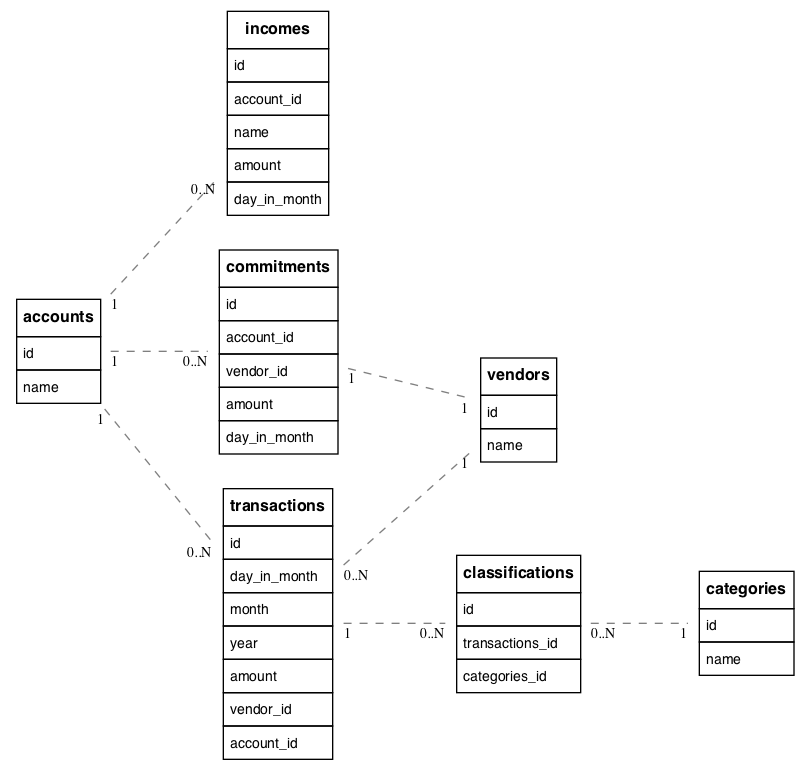
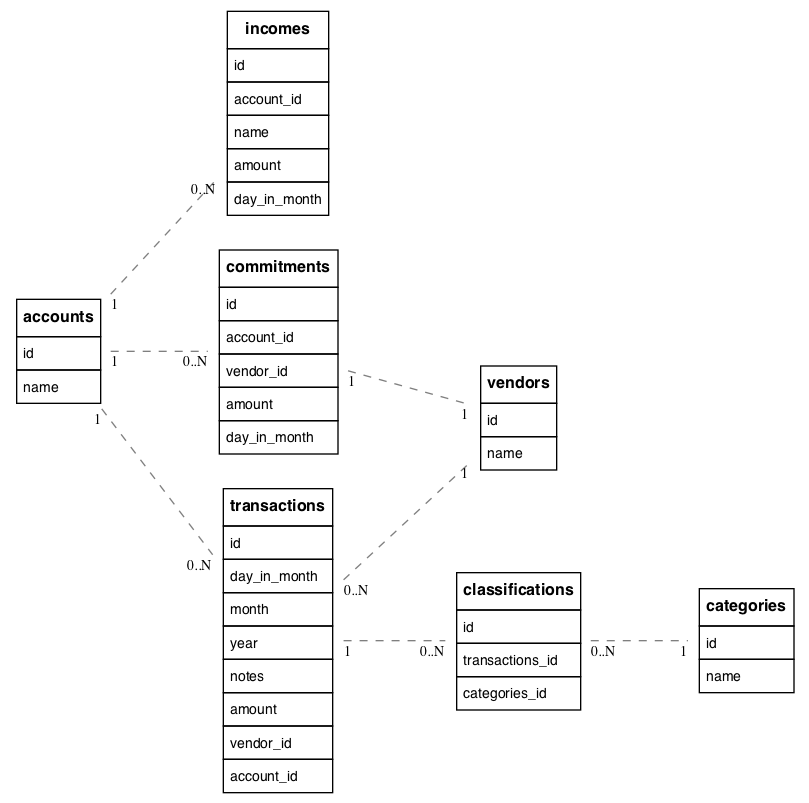
more work on text wireframing, user journeys

diff --git a/design/user journeys.md b/design/user journeys.md
@@ -1,0 +1,92 @@
+*User Journeys*
+-----
+
+**User: I want to record a transaction, I spent £4.50 at Greggs**
+========
+
+**User: I want to record a transaction.**
+
+System: Provides a single "+" button on home page, user clicks on it and a new transaction page appears.
+
+**User: It was at Greggs**
+
+System: Vendor field. User can either type a new Vendor into the field, or choose from a drop down of known vendors.
+
+**User: For £4.50**
+
+System: Amount field. User types in field
+
+**User: It was Yum Yums and a Bacon roll.**
+
+System: Notes field, optional. For reminding you what it was if you forget the name of the shop
+
+**User: I want to categorise it under 'food' and breakfast**
+
+System: User types words in a text field with spaces between. On save, it will reuse recognised categories, and create any new ones it hasn't seen before.
+
+**User: I want to save this**
+System: Big call to action at bottom of screen to add transaction
+
+-----
+
+**User: I want to see my transactions**
+===============
+
+**User: Want to see all my transactions**
+
+System: default view is a scrollable list of transactions. Each transaction shows day of month, vendor and amount.
+Each transaction has an 'info' button for viewing the transaction.
+
+
+
+**User wants to remove a transaction**
+===============
+**User: I want to remove a transaction**
+
+System: Provides a date-sorted list of transactions. User scrolls to transaction in list an clicks the 'info' icon to open the record
+
+**User: I want to delete THIS one after all.**
+
+System: provides a 'DELETE' button next to the 'SAVE' button for existing transactions. DELETE button is coloured red as a warning.
+
+------
+
+**User: I want to record an income (salary or savings withdrawal)**
+===========
+
+**User: I want to record an incoming payment (either regular like a salary, or one-off)**
+
+System: Provides hamburger menu. User selects incomings.
+This provides a list of existing incomings, regular and one-off.
+
+**User: I want to record regular salary**
+
+System: User clicks on Add (+) button. Form appears which provides fields for name, user types in 'salary' and then amount into the 'amount field'.
+
+**User - I want this to be regular (like a salary)**
+
+System: provides one-off/regular checkbox. User clicks regular, and a day-of-month field appears.
+
+**User - I want this as a one off payment (e.g. a gift, or savings withdrawal)**
+
+System: Provides one-off or regular radio button. User selects one-off
+
+**User: ok, I want to save this now**
+
+System. Big bold button at bottom to add. Takes user back to main page
+
+----
+
+**User: I want to record a regular outgoing (e.g. Council Tax, Gym Subs)**
+===========
+
+**User: I want to record my Council Tax going out on the 31st of each day_in_month**
+
+System: Hamburger menu, user selects Commitments. This brings up a list of regular scheduled payments. User clicks on Add [+] button.
+
+**User: Want to record it as being for the Council.**
+
+System: Free text for the user to enter a new value, or click to pull down a list.
+
+**User: it has to be on 31st of each month** [lets ignore Feb for now!]
+System: provides a pull-down or text field to accept a date.

diff --git a/design/user_needs.md b/design/user_needs.md
@@ -170,3 +170,17 @@ be able to record when transactions happened
 **So that I**
 
 can estimate my balance at any time, and see the transactions in order.
+
+***Need 12***
+
+**As**
+
+a budgeter
+
+**I want to**
+
+be able to type text notes against a transaction
+
+**So that I**
+
+can remember what that weird payment was in a month's time when I've forgotten the name of the shop
